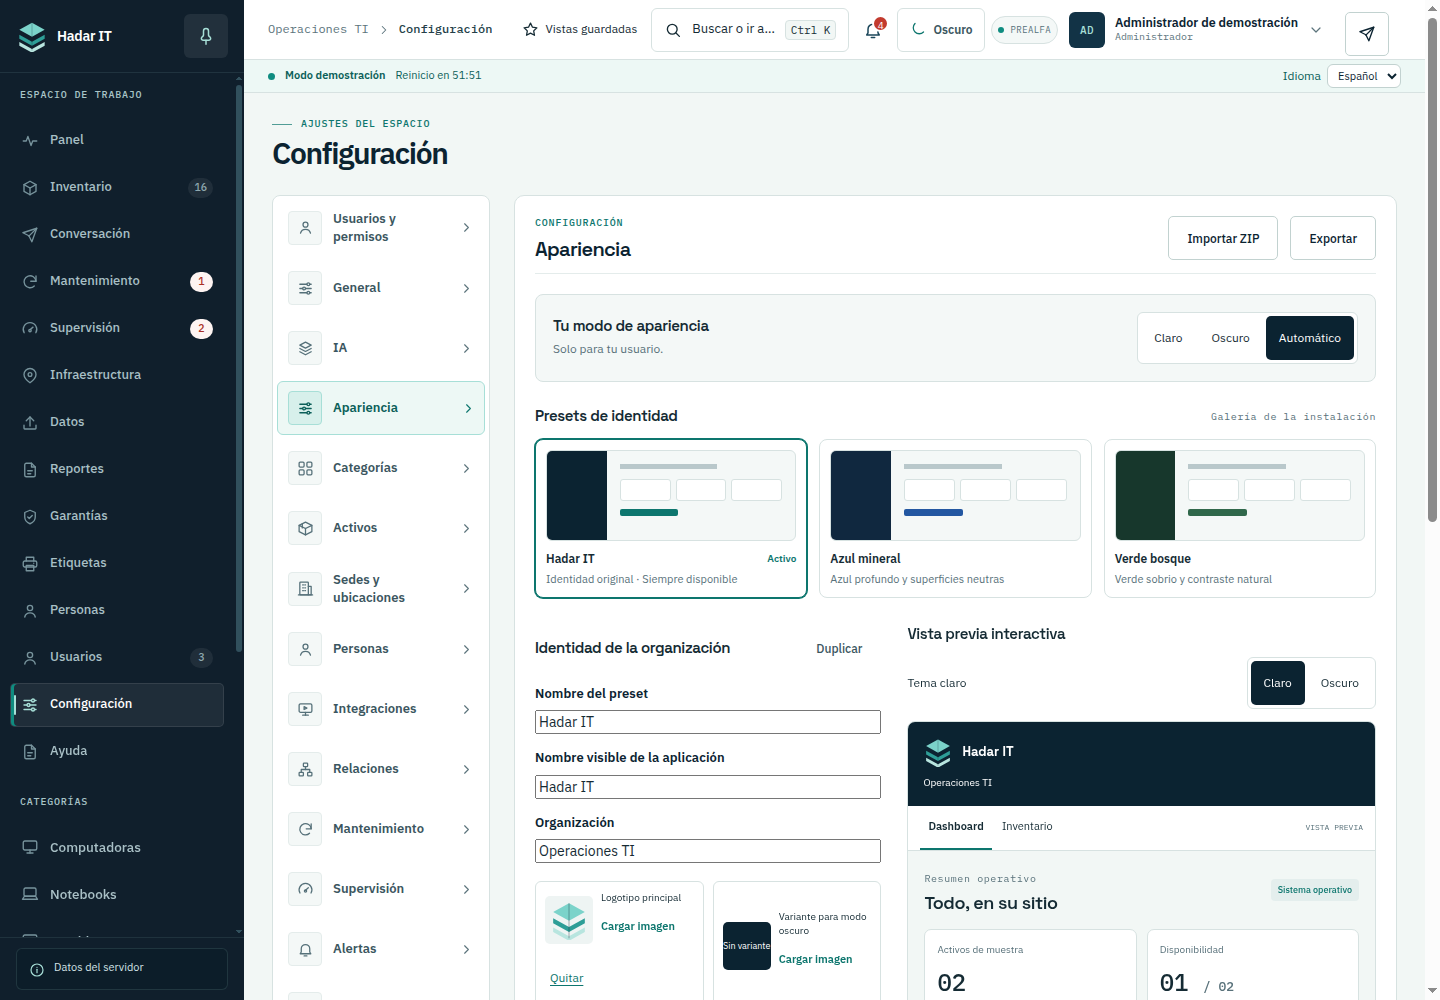
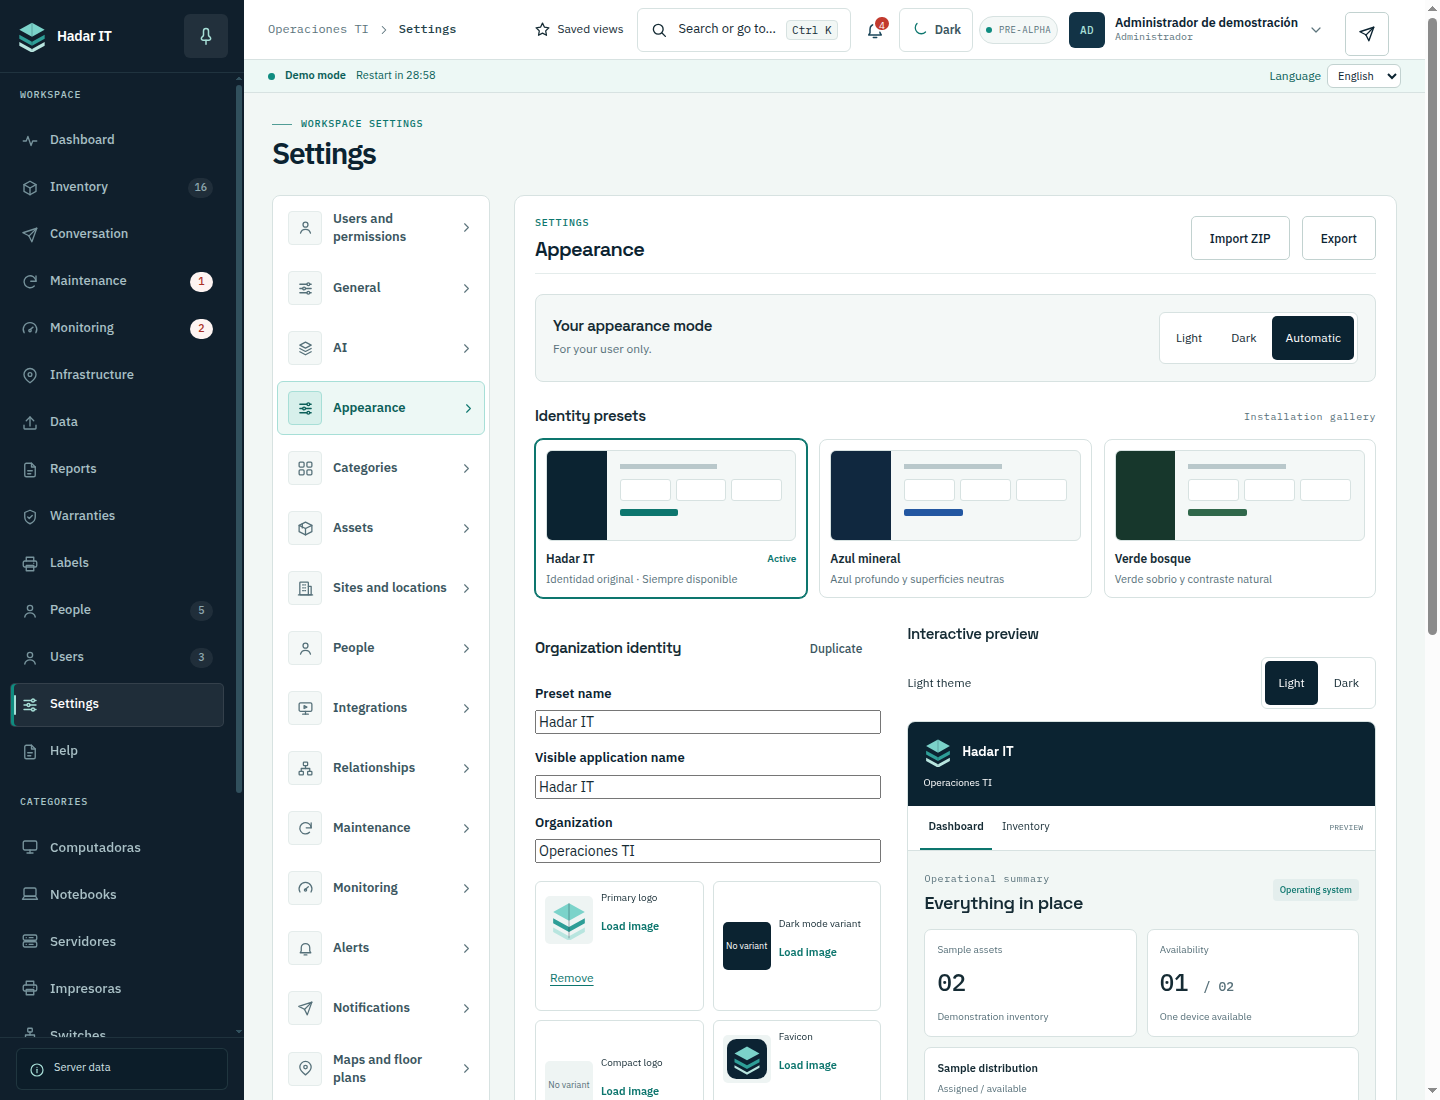
docs: show real demo screenshots with English interface

diff --git a/docs/features.md b/docs/features.md
@@ -3,8 +3,9 @@
 [Install Hadar](../INSTALL.md) · [Project overview](../README.md) · [Technical guide](technical-guide.md)
 
 Start with the department, then follow a piece of equipment through its day-to-day work.
-These are real application screenshots using fictional demo records. The interface shown
-is in Spanish. Demo monitoring is synthetic; the assistant needs a configured model.
+These are real application screenshots with the interface set to English and fictional
+demo records. Asset and site names retain their demo labels. Monitoring is synthetic;
+the assistant needs a configured model.
 
 ## 1. Start with the whole picture
 
